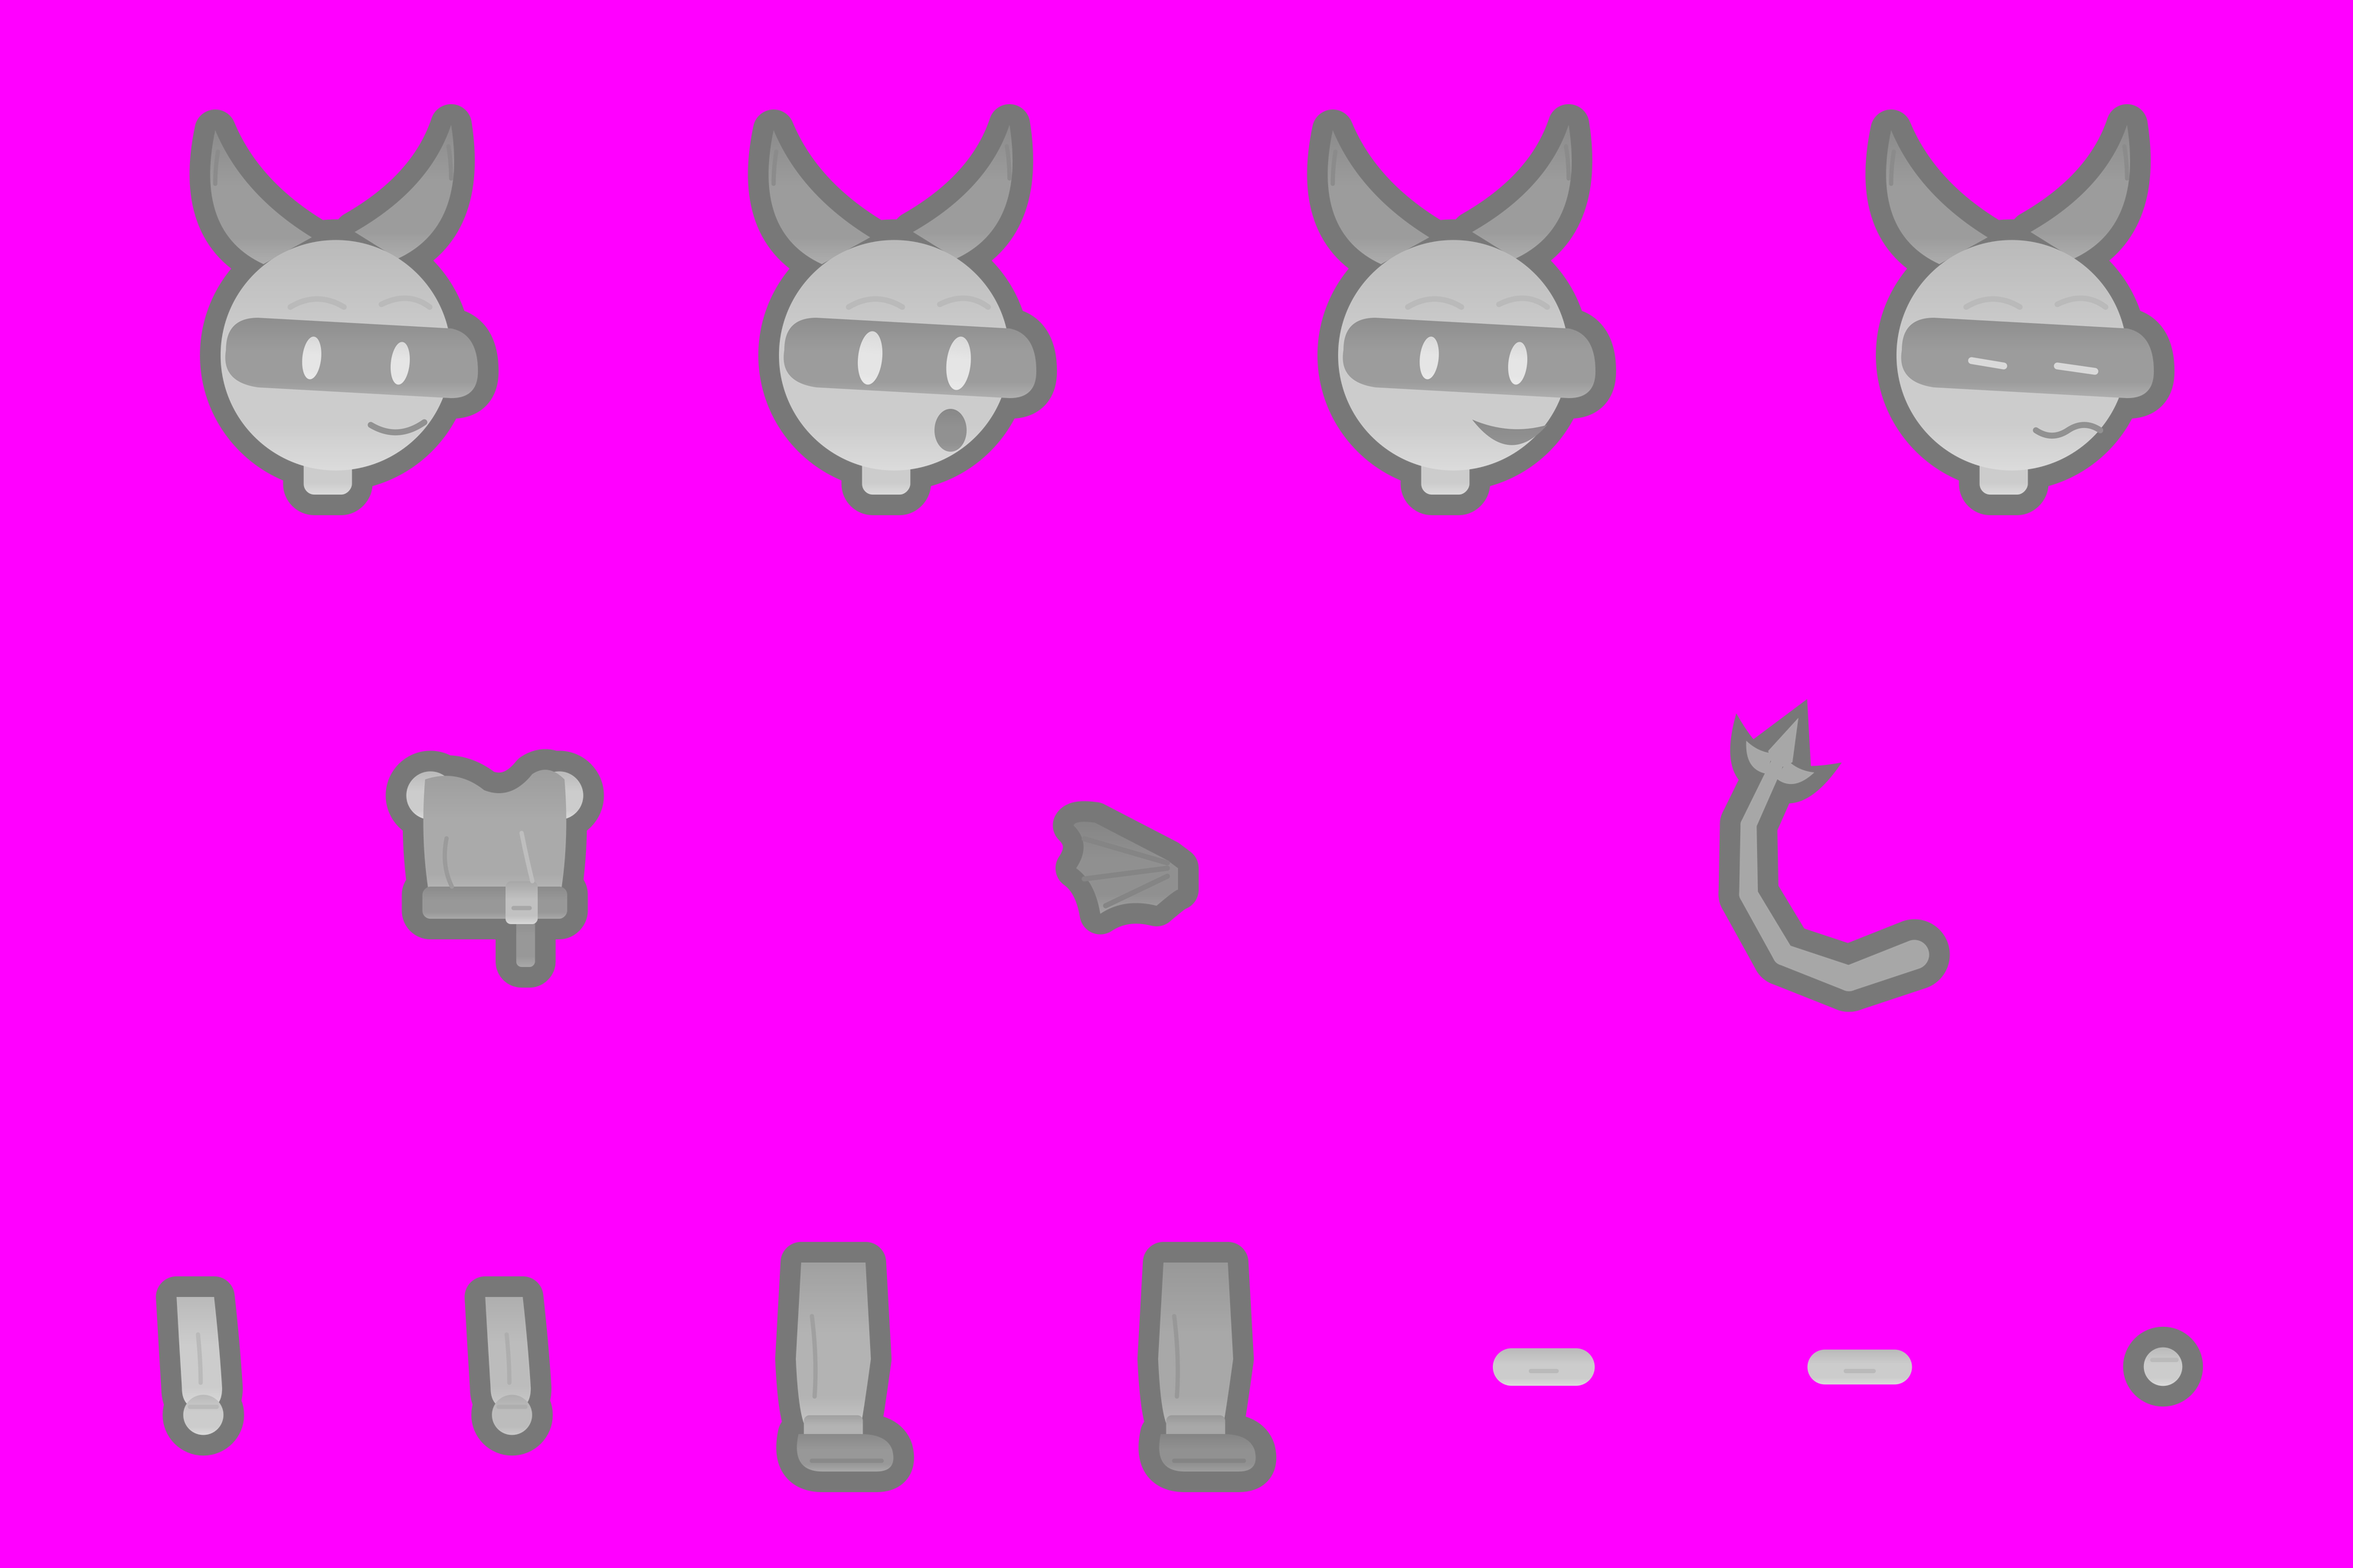
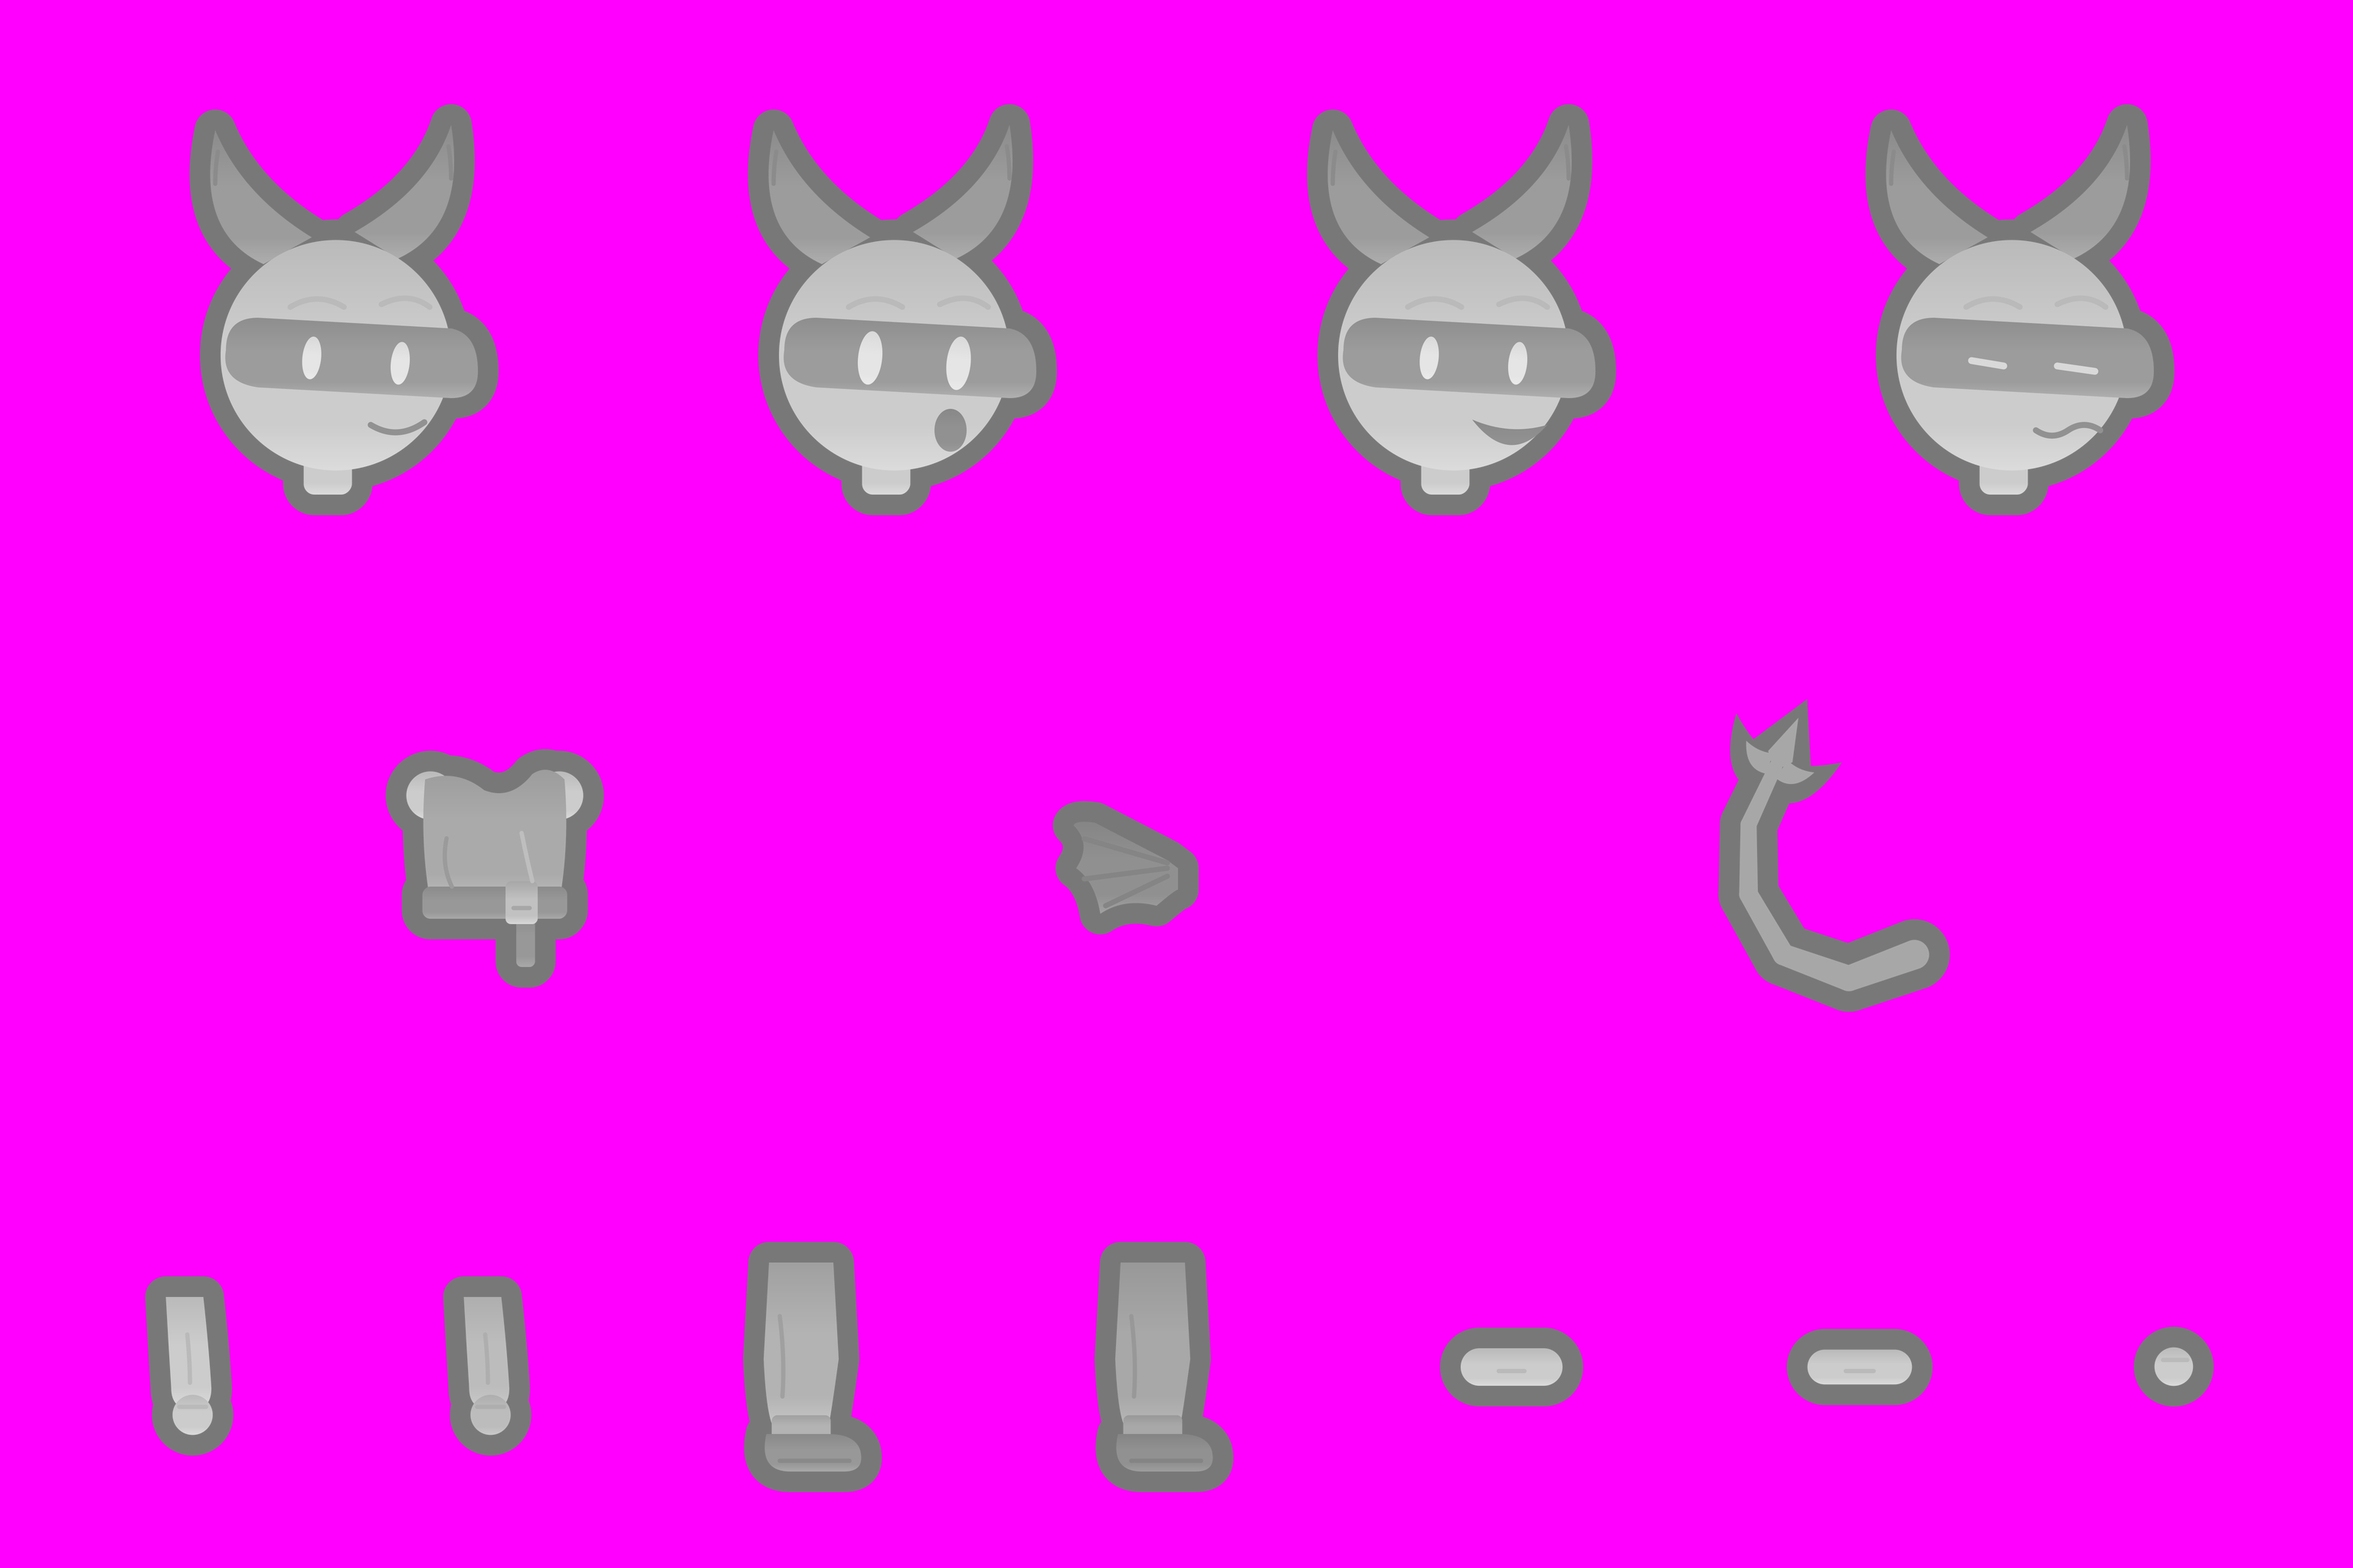
WB-001 aggiornata allo stampino definitivo e riapprovata
Riferimenti nuovi, coda intera continua, gomito tondo, due fogli: canottiera rossa
o del colore della squadra (verde #00FF00).

Claude-Session: https://claude.ai/code/session_01XmXLjk9fCK9NNy1NXABwXq

diff --git a/docs/handoff/WB-001_pezzi_diavoletto_gabriella.md b/docs/handoff/WB-001_pezzi_diavoletto_gabriella.md
@@ -1,35 +1,39 @@
 # WB-001 · Pezzi del diavoletto di Gabriella sullo stampino
 
-- **Stato:** PROPOSTA (in attesa dello stampino definitivo: coda a segmenti, gomito, colore della squadra)
+- **Stato:** APPROVATA
 - **Data:** 2026-10-28
 - **Ramo della scheda:** `claude/project-thread-gdvhtm` · **Ramo delle immagini:** `design/WB-001`
 
 ## Obiettivo
 
 Rimettere nel gioco il diavoletto dipinto di Gabriella, ma con il contorno nero puro e
-spesso, come pelle `personaggio` dello stampino: tutti i pezzi ridisegnati nelle caselle del
-manichino, così si montano sullo scheletro e si muovono con le animazioni che ci sono già.
+spesso, come pelle `personaggio` dello stampino (regole in `strumenti/stampino/README.md`
+della PR #55): tutti i pezzi ridisegnati nelle caselle del manichino, così si montano sullo
+scheletro e si muovono con le animazioni che ci sono già.
 
 ## Riferimenti da allegare
 
 | Codice | File | Cos'è |
 |---|---|---|
-| R1 | `art/WB-001/riferimenti/R1_stampino_ai.png` | lo stampino: 14 caselle col manichino grigio su magenta (3072×2048) |
+| R1 | `art/WB-001/riferimenti/R1_stampino_ai.png` | lo stampino definitivo: 14 caselle col manichino grigio su magenta (3072×2048) |
 | R2 | `art/WB-001/riferimenti/R2_manichino.png` | il manichino montato: come stanno insieme i pezzi |
 | R3 | `art/WB-001/riferimenti/R3_diavoletto_gabriella.png` | il diavoletto di Gabriella: colori, vestiti, faccia |
 
 ## Immagini da generare
 
 Ogni prompt è completo e va usato così com'è. Allega R1, R2 e R3 in quest'ordine.
+Sono due fogli: uguali, tranne la canottiera, che nel secondo è del colore della squadra.
 
 | Nome file | Riferimenti | Misura | Varianti |
 |---|---|---|---|
-| `foglio_gabriella` | R1, R2, R3 | 3:2 orizzontale, la più grande che puoi (ideale 3072×2048, minimo 1536×1024) | 2 |
+| `foglio_rosso` | R1, R2, R3 | 3:2 orizzontale, la più grande che puoi (ideale 3072×2048, minimo 1536×1024) | 1 |
+| `foglio_squadra` | R1, R2, R3 | come sopra | 1 |
 
 Eccezione alla regola dello sfondo trasparente di `AGENTS.md`: qui lo sfondo resta **magenta
-pieno #FF00FF**, come R1, perché lo strumento di taglio lo usa.
+pieno #FF00FF**, come R1, perché lo strumento di taglio lo usa. Il verde #00FF00 qui non è
+uno sfondo: nel secondo foglio segna la canottiera da tingere, e non va tolto.
 
-### `foglio_gabriella`
+### `foglio_rosso`
 
 ```
 Image 1 is a parts template sheet for a 2D cut-out game character: 14 grey mannequin parts on a flat magenta (#FF00FF) background, in three rows. Image 2 shows the same grey parts assembled into the full character, so you can see how they fit together. Image 3 is the character to recreate: a small devil.
@@ -38,10 +42,25 @@ Redraw image 1 exactly: same canvas, same flat magenta #FF00FF background, the s
 
 The parts, left to right:
 Row 1, four heads, all facing right like the grey ones: round beige-grey head with two curved dark brown horns, black wraparound visor across the eyes with two glowing white-yellow eyes, small dark eyebrows, short neck stub at the bottom like the grey one. Head 1: small closed smile. Head 2 (hit): eyes wide, small round open mouth. Head 3 (happy): big wide grin. Head 4 (knocked out): eyes as two short flat lines, wavy mouth.
-Row 2: the torso with a red sleeveless tank top, black belt with a silver square buckle and the black strap hanging down, exactly the grey torso shape with round shoulders; one dark grey bat wing with the same shape and angle as the grey wing; the whole tail in dark red-brown, same curve as the grey tail, ending in a three-pronged trident tip.
-Row 3: two hanging arms (beige-grey skin, closed fist at the bottom), two legs (baggy red trousers ending in a dark brown shoe, same shape as the grey legs), the upper arm and the forearm (short beige-grey capsules, rounded ends), and one round closed fist.
+Row 2: the torso with a red sleeveless tank top, black belt with a silver square buckle and the black strap hanging down, exactly the grey torso shape with round shoulders; one dark grey bat wing with the same shape and angle as the grey wing; the whole tail in one piece, dark red-brown, at rest, with exactly the same curve and thickness as the grey tail, ending in a three-pronged trident tip. The tail must be one smooth continuous tube with no breaks, seams or joints along it.
+Row 3: two hanging arms (beige-grey skin, closed fist at the bottom), two legs (baggy red trousers ending in a dark brown shoe, same shape as the grey legs), the upper arm and the forearm (two short beige-grey capsules with fully rounded, filled ends, so they can overlap at the elbow without a visible joint), and one round closed fist.
 
-Style: clean 2D cartoon game art, flat colours with one simple soft shade (darker below, lighter above), THICK PURE BLACK outline around every part, as thick as the grey outline of image 1. No paper texture, no grain, no hatching, no brush strokes, no white or light rim outside the black outline, no brown outline. Keep the colours, clothes and face of image 3, but the shapes and positions of image 1.
+Style: clean 2D cartoon game art, flat colours with one simple soft shade (darker below, lighter above), THICK PURE BLACK outline around the outside of every part, as thick as the grey outline of image 1, and no outline lines drawn across the inside of a part. No paper texture, no grain, no hatching, no brush strokes, no white or light rim outside the black outline, no brown outline. Do not use any bright green anywhere. Keep the colours, clothes and face of image 3, but the shapes and positions of image 1.
+```
+
+### `foglio_squadra`
+
+```
+Image 1 is a parts template sheet for a 2D cut-out game character: 14 grey mannequin parts on a flat magenta (#FF00FF) background, in three rows. Image 2 shows the same grey parts assembled into the full character, so you can see how they fit together. Image 3 is the character to recreate: a small devil.
+
+Redraw image 1 exactly: same canvas, same flat magenta #FF00FF background, the same 14 parts in the same positions, the same sizes, the same angles and the same silhouettes as the grey parts, but painted as the devil of image 3. Each part stays separate and in its own place; do not add, merge, move, resize or rotate any part, and do not add anything else to the sheet (no labels, no text, no shadows on the background, no flame).
+
+The parts, left to right:
+Row 1, four heads, all facing right like the grey ones: round beige-grey head with two curved dark brown horns, black wraparound visor across the eyes with two glowing white-yellow eyes, small dark eyebrows, short neck stub at the bottom like the grey one. Head 1: small closed smile. Head 2 (hit): eyes wide, small round open mouth. Head 3 (happy): big wide grin. Head 4 (knocked out): eyes as two short flat lines, wavy mouth.
+Row 2: the torso with a sleeveless tank top painted in pure bright green #00FF00 (with its soft shading in darker shades of the same pure green), black belt with a silver square buckle and the black strap hanging down, exactly the grey torso shape with round shoulders; one dark grey bat wing with the same shape and angle as the grey wing; the whole tail in one piece, dark red-brown, at rest, with exactly the same curve and thickness as the grey tail, ending in a three-pronged trident tip. The tail must be one smooth continuous tube with no breaks, seams or joints along it.
+Row 3: two hanging arms (beige-grey skin, closed fist at the bottom), two legs (baggy red trousers ending in a dark brown shoe, same shape as the grey legs), the upper arm and the forearm (two short beige-grey capsules with fully rounded, filled ends, so they can overlap at the elbow without a visible joint), and one round closed fist.
+
+Style: clean 2D cartoon game art, flat colours with one simple soft shade (darker below, lighter above), THICK PURE BLACK outline around the outside of every part, as thick as the grey outline of image 1, and no outline lines drawn across the inside of a part. No paper texture, no grain, no hatching, no brush strokes, no white or light rim outside the black outline, no brown outline. The bright green #00FF00 is used ONLY for the tank top, nowhere else. Keep the colours, clothes and face of image 3 (except the green tank top), but the shapes and positions of image 1.
 ```
 
 ## Criteri di accettazione
@@ -50,7 +69,9 @@ Style: clean 2D cartoon game art, flat colours with one simple soft shade (darke
 - [ ] sfondo magenta pieno, senza aloni o ombre
 - [ ] contorno nero puro e spesso su ogni pezzo, nessun bordo chiaro fuori dal nero
 - [ ] quattro teste con le quattro espressioni, tutte rivolte a destra
-- [ ] coda intera con la punta a tridente, ala singola, pugno tondo
+- [ ] coda intera, continua, senza giunture, con la punta a tridente; ala singola; pugno tondo
+- [ ] omero e avambraccio con le estremità tonde e piene
+- [ ] verde acceso solo sulla canottiera del `foglio_squadra`, da nessun'altra parte
 - [ ] nessuna scritta
 
 ---
@@ -60,13 +81,16 @@ Style: clean 2D cartoon game art, flat colours with one simple soft shade (darke
 Approvata da Claude, 2026-10-28: scelta reversibile (sono solo immagini da generare, il
 gioco non cambia finché non le integro). Sergio può ribaltarla.
 
-Rimessa in PROPOSTA da Claude, 2026-10-28: lo stampino sta cambiando (coda a segmenti,
-gomito, colore della squadra). Si riapprova con i riferimenti e il prompt aggiornati, per
-non spendere i limiti del Plus su un foglio vecchio.
+Rimessa in PROPOSTA da Claude, 2026-10-28: lo stampino stava cambiando. Riapprovata da Claude
+lo stesso giorno con lo stampino definitivo (commit eb4e24b della PR #55): coda intera
+divisa da `taglia.py`, gomito e coda tondi e pieni, verde acceso per il colore della squadra.
+Due fogli per scegliere: canottiera rossa come nel disegno di Gabriella, oppure del colore
+della squadra (la fiammella resta comunque del colore della squadra).
 
 ## Consegna di Codex
 
 ## Resoconto di Claude
 
-Taglio previsto: `python3 strumenti/stampino/taglia.py art/WB-001/foglio_gabriella_N.png --nome gabriella --categoria personaggio --allinea`
-(dal ramo della PR #55), poi prova nell'editor e nella simulazione.
+Taglio previsto, dal ramo della PR #55:
+`python3 strumenti/stampino/taglia.py art/WB-001/foglio_rosso.png --nome gabriella --categoria personaggio --allinea`
+(e `foglio_squadra.png` con `--nome gabriella_squadra`), poi prova nell'editor e nella simulazione.
